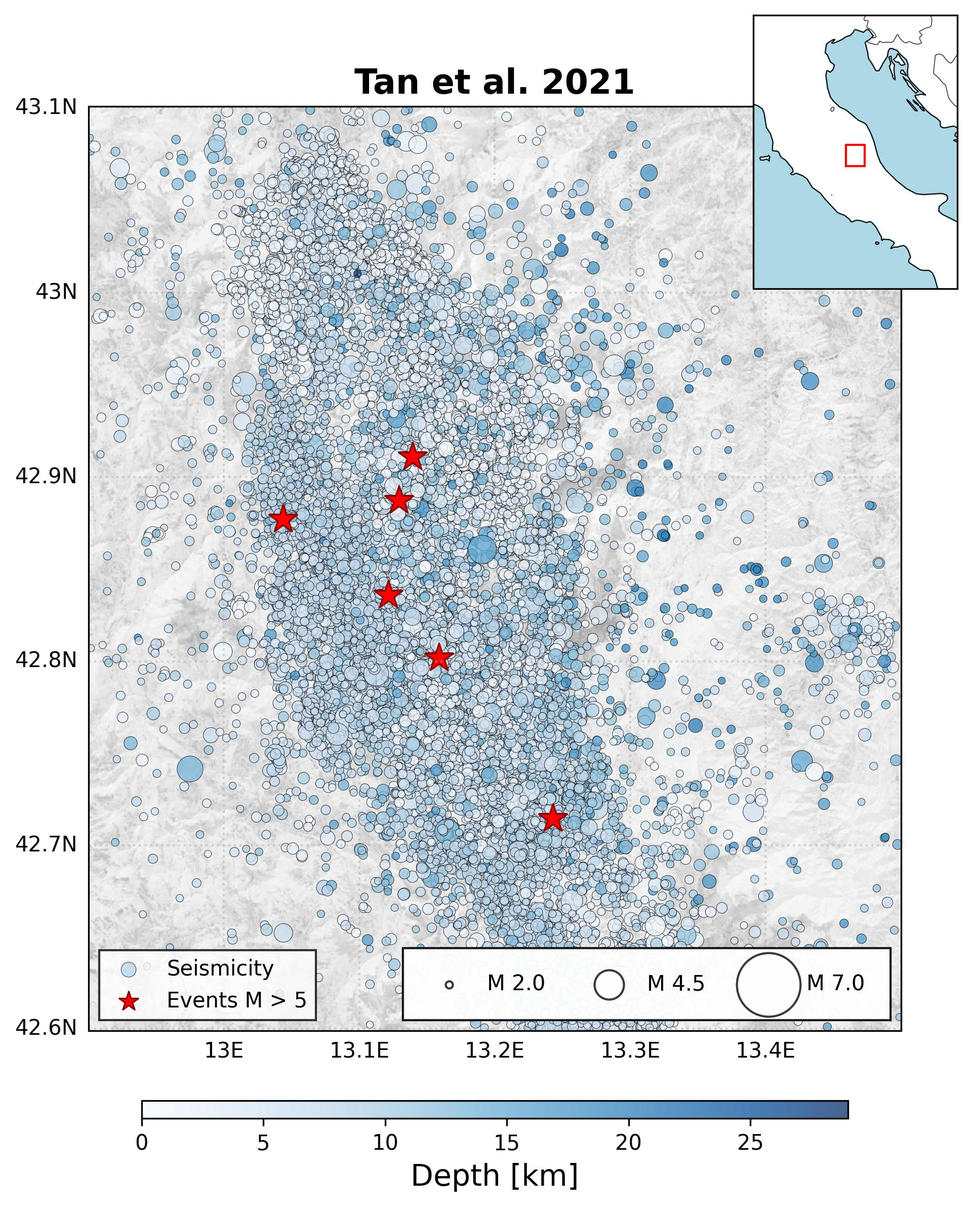
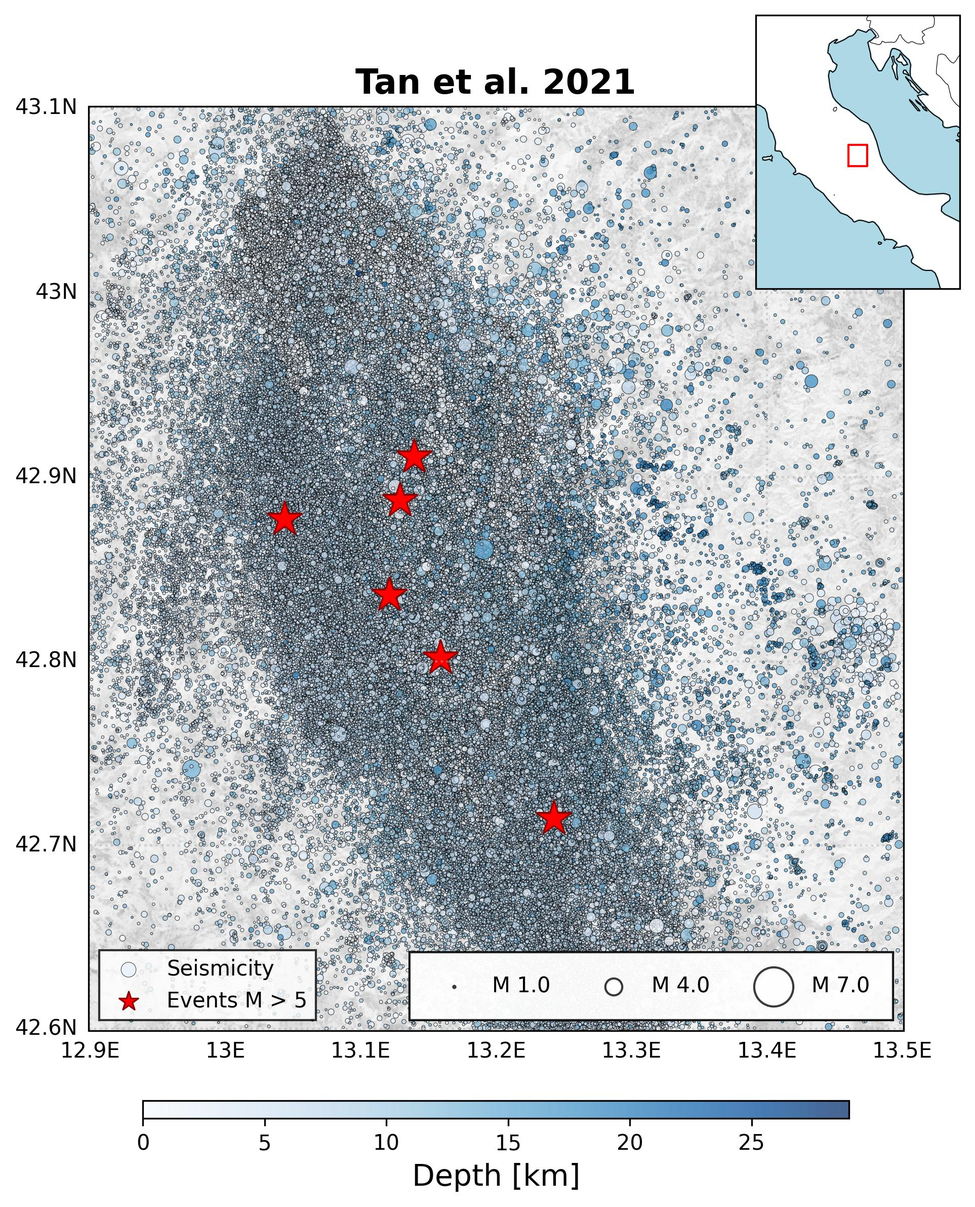
Updated `README.md`

diff --git a/seismoviz/plotters/crs_plotter.py b/seismoviz/plotters/crs_plotter.py
@@ -279,8 +279,12 @@ class CrossSectionPlotter:
                 ax.scatter(
                     self.cs.data.loc[section].on_section_coords,
                     self.cs.data.loc[section].depth,
-                    color=color, edgecolor=edgecolor,
-                    s=plt_size, alpha=alpha, linewidth=0.25
+                    color=color, 
+                    edgecolor=edgecolor,
+                    s=plt_size, 
+                    alpha=alpha,
+                    linewidth=0.25,
+                    label=legend
                 )
 
             if hl_ms is not None:

diff --git a/seismoviz/plotters/cat_plotter.py b/seismoviz/plotters/cat_plotter.py
@@ -277,7 +277,7 @@ class CatalogPlotter:
                     fancybox=False,
                     edgecolor='black',
                     ncol=len(size_values),
-                    borderpad=1.2,
+                    borderpad=1.1,
                 )
                 
                 self.mp.ax.add_artist(leg2)

diff --git a/README.md b/README.md
@@ -33,7 +33,7 @@ Apply multiple filtering criteria to extract your subset of interest. The flexib
 
 ```python
 fc = catalog.filter(
-    mag=('greater', 2),             # Magnitude > 2
+    mag=('greater', 1,             # Magnitude > 1
     lon=('between', [12.9, 13.5]),  # Longitude range
     lat=('between', [42.6, 43.1])   # Latitude range
 )
@@ -45,10 +45,10 @@ Generate publication-ready maps with customizable parameters. Visualize your eve
 ```python
 fc.plot_map(
     title='Tan et al. 2021', # Set the title of the map
-    highlight_mag=5,         # Highlight events with magnitude > 5
+    hl_ms=5,                 # Highlight events with magnitude > 5
     color_by='depth',        # Color events by depth
-    size='mag',              # Size proportional to magnitude
     cmap='Blues',            # Choose colormap
+    size='mag',              # Size proportional to magnitude
     legend='Seismicity'      # Custom legend label
 )
 ```
@@ -74,7 +74,7 @@ cs = sv.create_cross_section(
 
 # Visualize the cross-section
 cs.plot_sections(
-    highlight_mag=5,        # Highlight events with magnitude > 5
+    hl_ms=5,                # Highlight events with magnitude > 5
     color_by='time',        # Color events by occurrence time
     cmap='Blues',           # Choose colormap
     size='mag',             # Size proportional to magnitude
